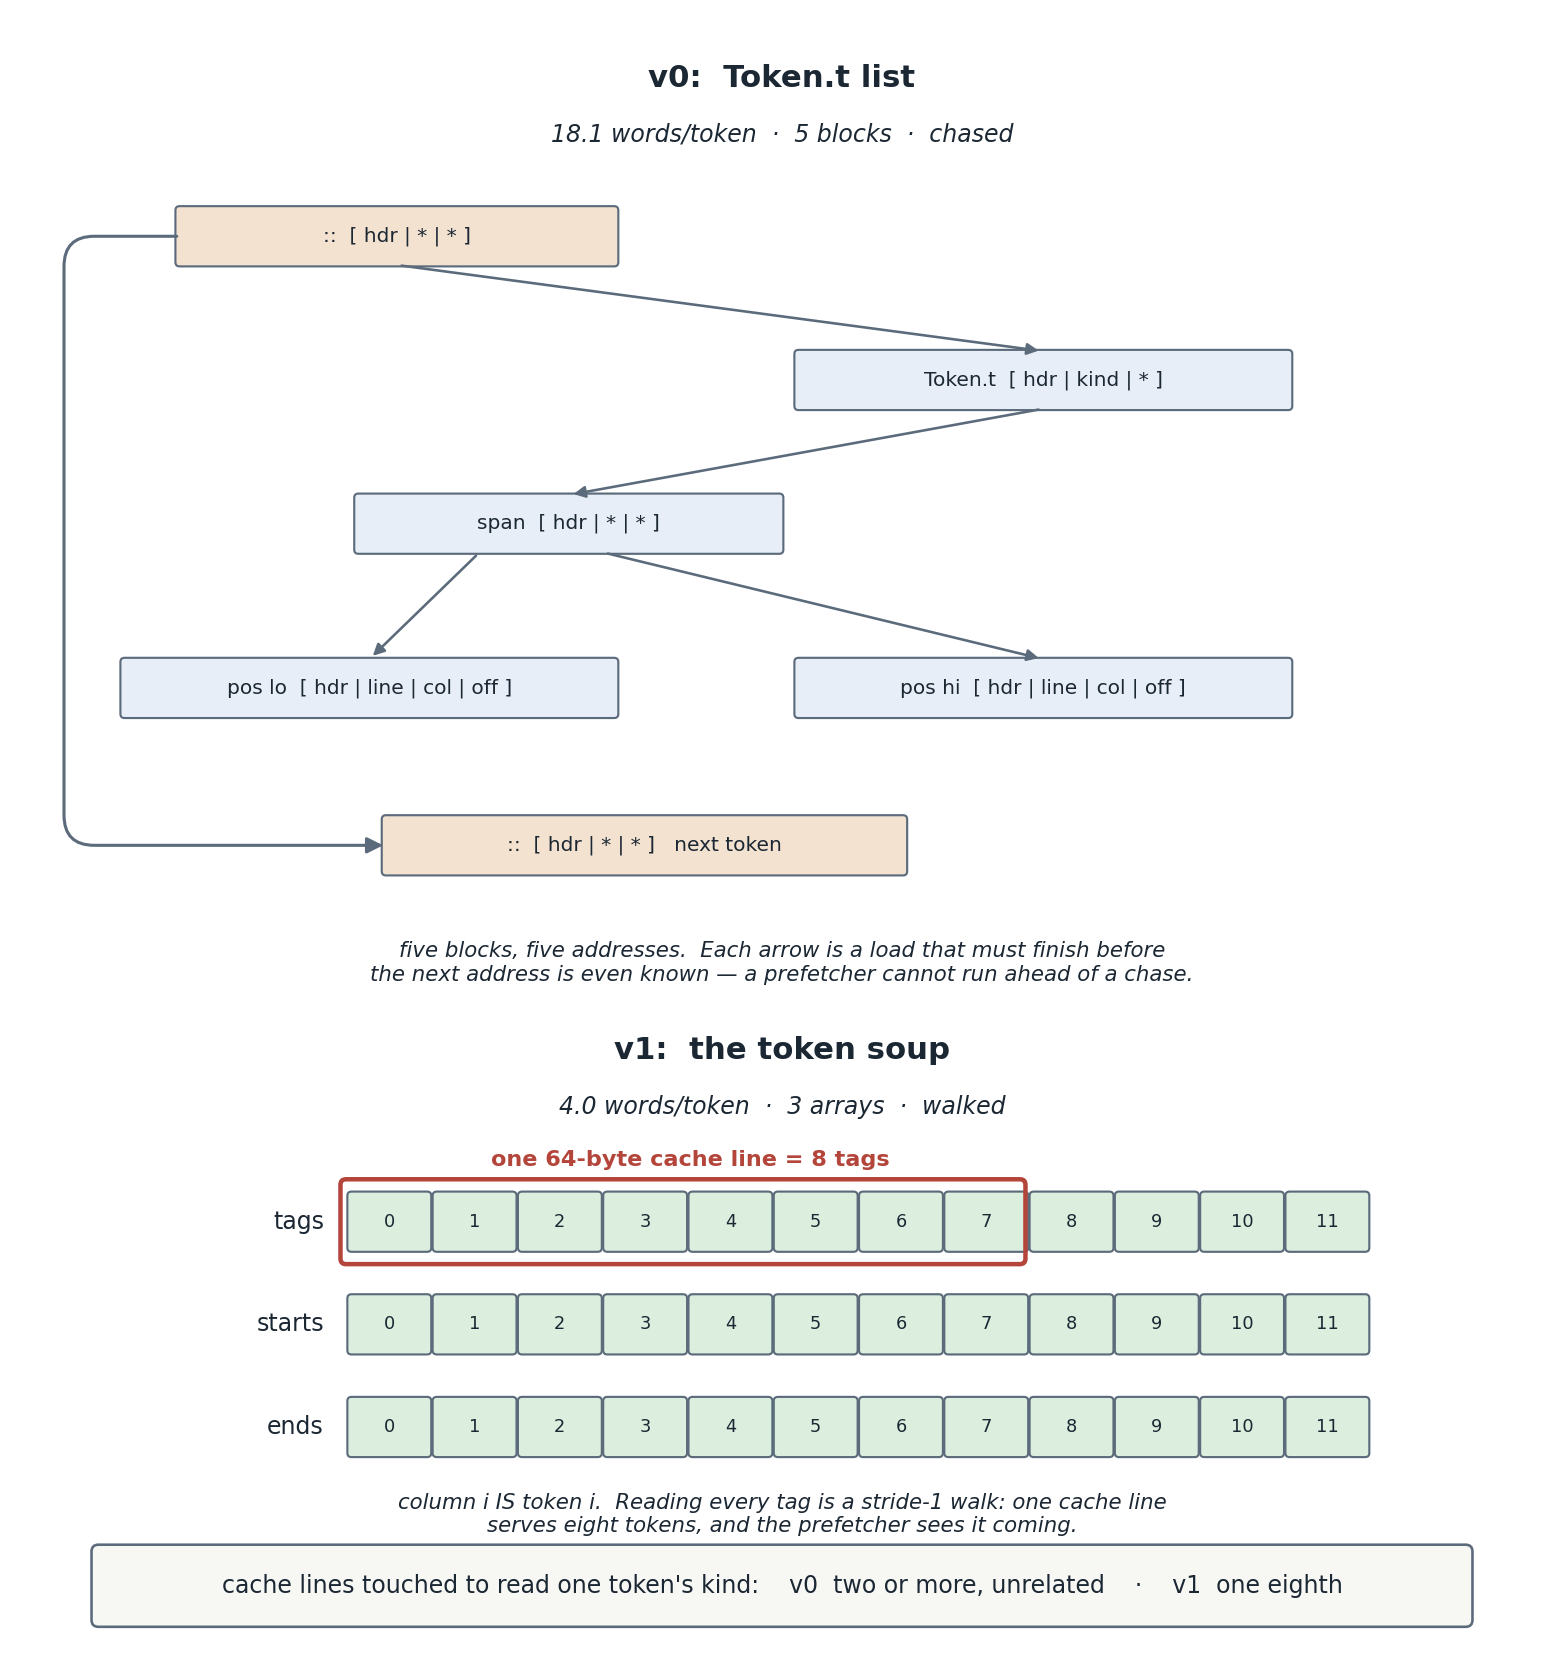
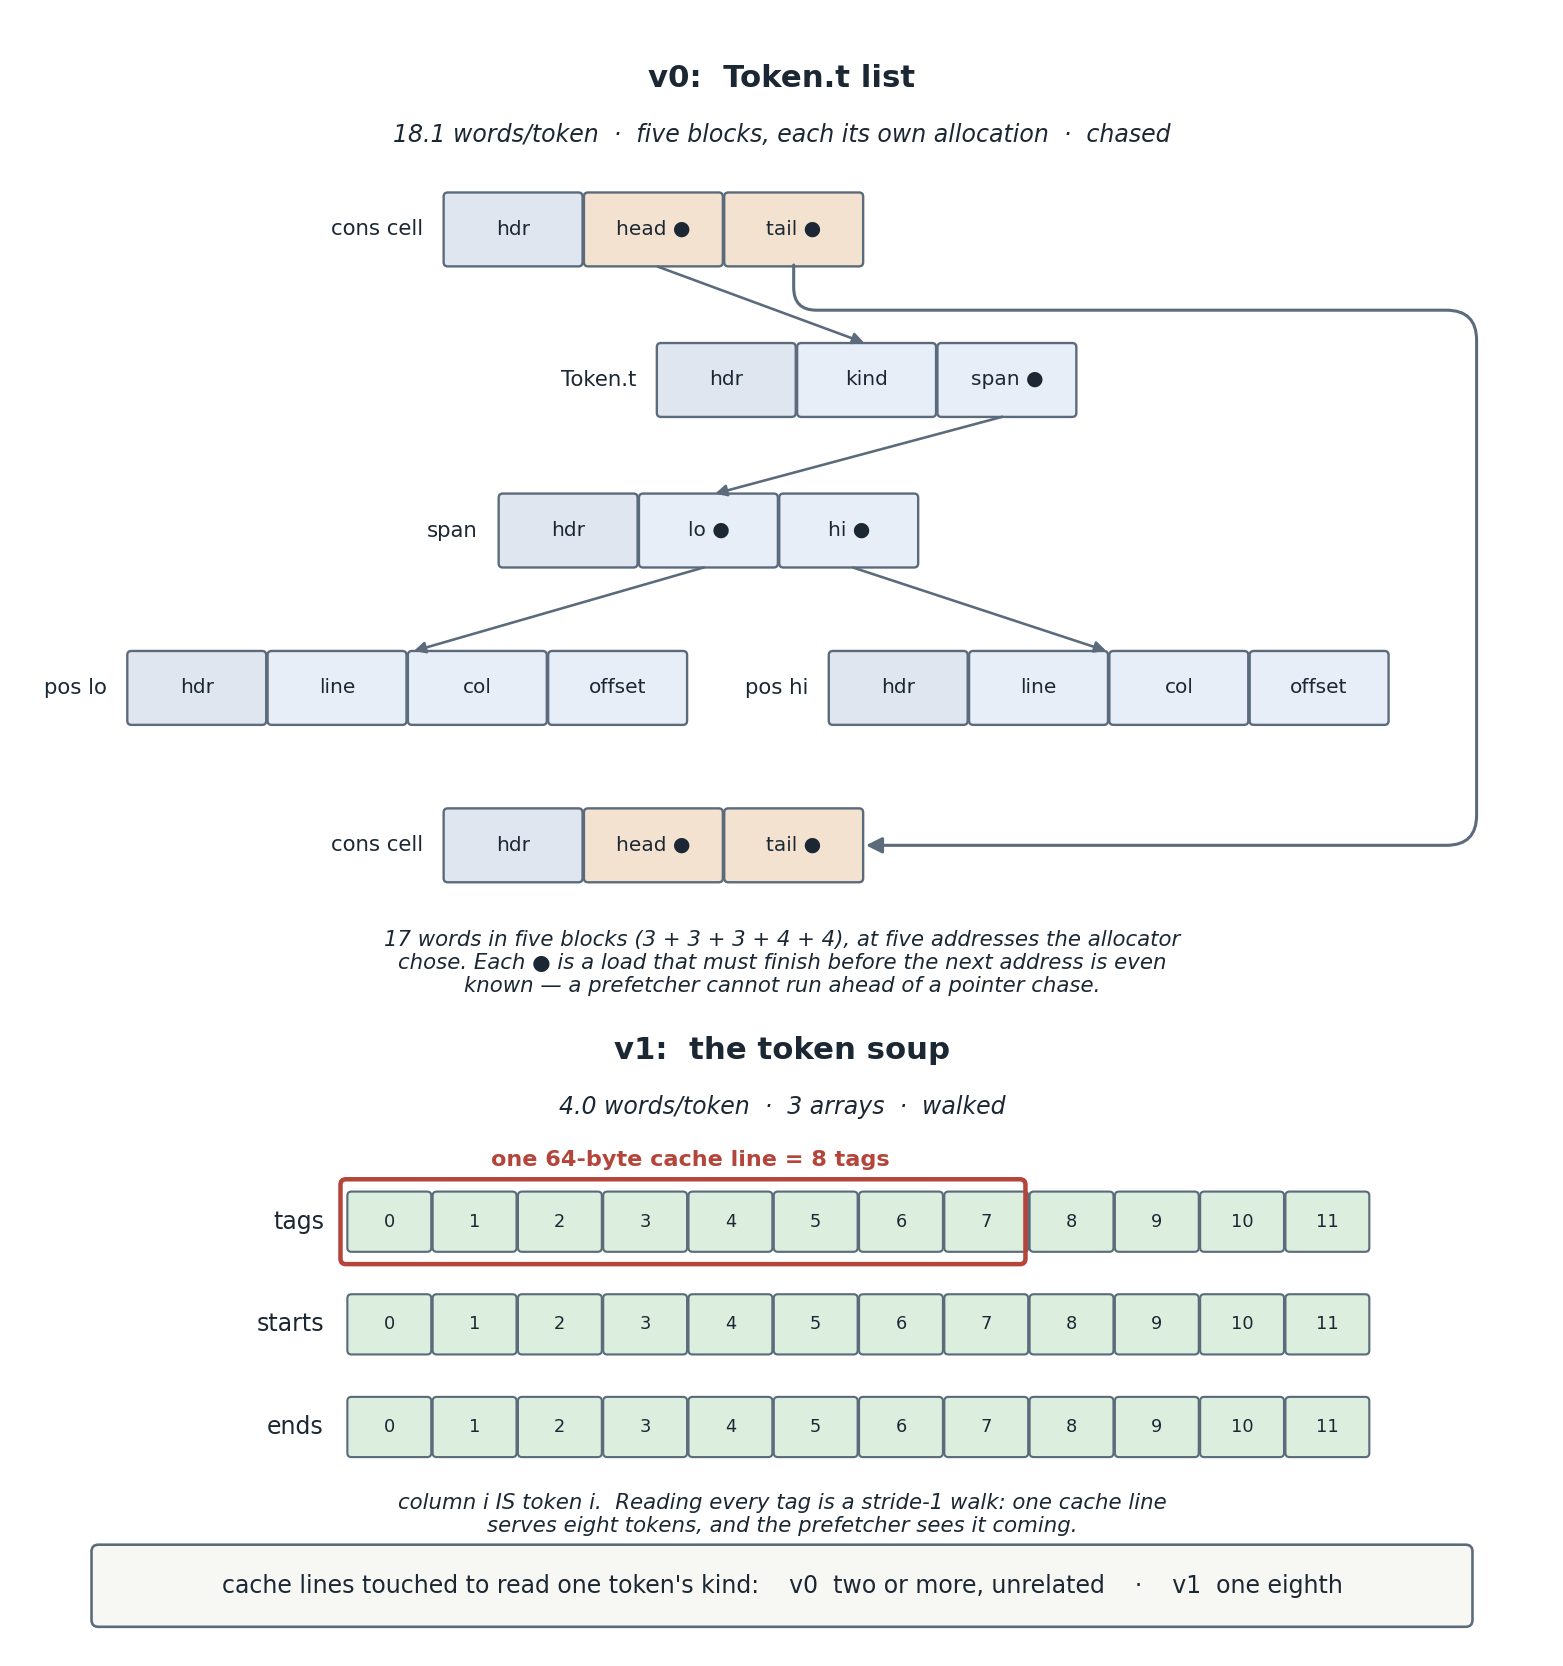
docs(01): draw the list blocks word by word, not as [ hdr | * | * ]
The shorthand said nothing: which field is the pointer, where each arrow
leaves from, or why a token costs 18 words. Draw each heap block as its
actual machine words — hdr, head, tail; hdr, kind, span; hdr, lo, hi;
hdr, line, col, offset — with a dot marking a pointer word and every
arrow leaving from the word that holds it. The word counts are now
visible and add up (3 + 3 + 3 + 4 + 4 = 17), which is where the measured
18.1 comes from once Int and Ident payloads are counted.

Matches the cell style of the soup panel below, so the two layouts are
drawn in the same units.

The tail pointer moved to the right margin; down the left it crossed the
`pos lo` label and struck through the second cons cell's.

Claude-Session: https://claude.ai/code/session_012HhuWctRnBFnsXUE9JbRuD

diff --git a/course/phase1-minimal/01-lexer/figs/make_figs.py b/course/phase1-minimal/01-lexer/figs/make_figs.py
@@ -160,33 +160,78 @@ def make_memory():
     # ---- top: the list ----------------------------------------------------
     ax.text(5.5, 11.35, "v0:  Token.t list", ha="center", fontsize=13,
             fontweight="bold", color=TEXT)
-    ax.text(5.5, 10.95, "18.1 words/token  ·  5 blocks  ·  chased", ha="center",
-            fontsize=10, color=TEXT, fontstyle="italic")
+    ax.text(5.5, 10.95,
+            "18.1 words/token  ·  five blocks, each its own allocation  ·  chased",
+            ha="center", fontsize=10, color=TEXT, fontstyle="italic")
 
-    blocks = [
-        (1.1, 10.05, 3.2, "::  [ hdr | * | * ]", CELL),
-        (5.6, 9.00, 3.6, "Token.t  [ hdr | kind | * ]", REC),
-        (2.4, 7.95, 3.1, "span  [ hdr | * | * ]", REC),
-        (0.7, 6.75, 3.6, "pos lo  [ hdr | line | col | off ]", REC),
-        (5.6, 6.75, 3.6, "pos hi  [ hdr | line | col | off ]", REC),
-        (2.6, 5.60, 3.8, "::  [ hdr | * | * ]   next token", CELL),
-    ]
-    for x, y, w, label, color in blocks:
-        word(ax, x, y, w, label, color, fontsize=8.5)
+    CW, CH = 1.02, 0.52          # one machine word
 
-    def hop(a, b):
-        ax.add_patch(FancyArrowPatch(a, b, arrowstyle="-|>", mutation_scale=10,
-                                     linewidth=1.1, color=EDGE, zorder=1))
+    def record(x, y, label, cells, color):
+        """A heap block drawn word by word. `cells` are (text, is_pointer)."""
+        ax.text(x - 0.16, y + CH / 2, label, ha="right", va="center",
+                fontsize=9, color=TEXT)
+        for k, (text, _) in enumerate(cells):
+            ax.add_patch(FancyBboxPatch(
+                (x + k * CW, y), CW - 0.03, CH,
+                boxstyle="round,pad=0.01,rounding_size=0.03",
+                linewidth=1.0, edgecolor=EDGE,
+                facecolor=("#dfe6ef" if text == "hdr" else color)))
+            ax.text(x + k * CW + (CW - 0.03) / 2, y + CH / 2, text,
+                    ha="center", va="center", fontsize=8.5, color=TEXT)
+        return x, y
 
-    hop((2.70, 10.05), (7.40, 9.42))     # cons    -> Token.t
-    hop((7.40, 9.00), (3.95, 8.37))      # Token.t -> span
-    hop((3.30, 7.95), (2.50, 7.17))      # span    -> pos lo
-    hop((4.20, 7.95), (7.40, 7.17))      # span    -> pos hi
-    elbow(ax, [(1.1, 10.26), (0.28, 10.26), (0.28, 5.81), (2.6, 5.81)], head=True)
+    def port(x, k):              # bottom-centre of word k, where a pointer leaves
+        return (x + k * CW + (CW - 0.03) / 2, )
+
+    rows = {
+        "cons":  (3.05, 10.05, "cons cell",
+                  [("hdr", 0), ("head ●", 1), ("tail ●", 1)], CELL),
+        "tok":   (4.60, 8.95, "Token.t",
+                  [("hdr", 0), ("kind", 0), ("span ●", 1)], REC),
+        "span":  (3.45, 7.85, "span",
+                  [("hdr", 0), ("lo ●", 1), ("hi ●", 1)], REC),
+        "lo":    (0.75, 6.70, "pos lo",
+                  [("hdr", 0), ("line", 0), ("col", 0), ("offset", 0)], REC),
+        "hi":    (5.85, 6.70, "pos hi",
+                  [("hdr", 0), ("line", 0), ("col", 0), ("offset", 0)], REC),
+        "next":  (3.05, 5.55, "cons cell",
+                  [("hdr", 0), ("head ●", 1), ("tail ●", 1)], CELL),
+    }
+    for x, y, label, cells, color in rows.values():
+        record(x, y, label, cells, color)
+
+    def link(src, k, dst_x, dst_w):
+        """From word k of `src` down into the top edge of the block at dst_x."""
+        sx, sy = rows[src][0], rows[src][1]
+        x0 = sx + k * CW + (CW - 0.03) / 2
+        ax.add_patch(FancyArrowPatch((x0, sy), (dst_x + dst_w / 2, dst_x * 0 + 0),
+                                     alpha=0))          # placeholder, replaced below
+        return x0, sy
+
+    def arrow_to(src, k, dst):
+        sx, sy = rows[src][0], rows[src][1]
+        dx, dy, _, dcells, _ = rows[dst]
+        x0 = sx + k * CW + (CW - 0.03) / 2
+        x1 = dx + len(dcells) * CW / 2
+        ax.add_patch(FancyArrowPatch((x0, sy), (x1, dy + CH), arrowstyle="-|>",
+                                     mutation_scale=10, linewidth=1.1,
+                                     color=EDGE, zorder=1))
+
+    arrow_to("cons", 1, "tok")     # head -> the token
+    arrow_to("tok", 2, "span")     # span pointer
+    arrow_to("span", 1, "lo")
+    arrow_to("span", 2, "hi")
+    # The tail pointer, routed down the RIGHT margin: the left is where the row labels
+    # live, and `pos hi` stops short of x=10, so this side is clear all the way down.
+    tx = rows["cons"][0] + 2 * CW + (CW - 0.03) / 2
+    nx = rows["next"][0] + 3 * CW          # right edge of the next cons cell
+    elbow(ax, [(tx, 10.05), (tx, 9.72), (10.55, 9.72), (10.55, 5.81), (nx, 5.81)],
+          head=True)
 
     ax.text(5.5, 4.95,
-            "five blocks, five addresses.  Each arrow is a load that must finish before\n"
-            "the next address is even known — a prefetcher cannot run ahead of a chase.",
+            "17 words in five blocks (3 + 3 + 3 + 4 + 4), at five addresses the allocator\n"
+            "chose. Each ● is a load that must finish before the next address is even\n"
+            "known — a prefetcher cannot run ahead of a pointer chase.",
             ha="center", va="center", fontsize=9, color=TEXT, fontstyle="italic")
 
     # ---- bottom: the soup -------------------------------------------------
